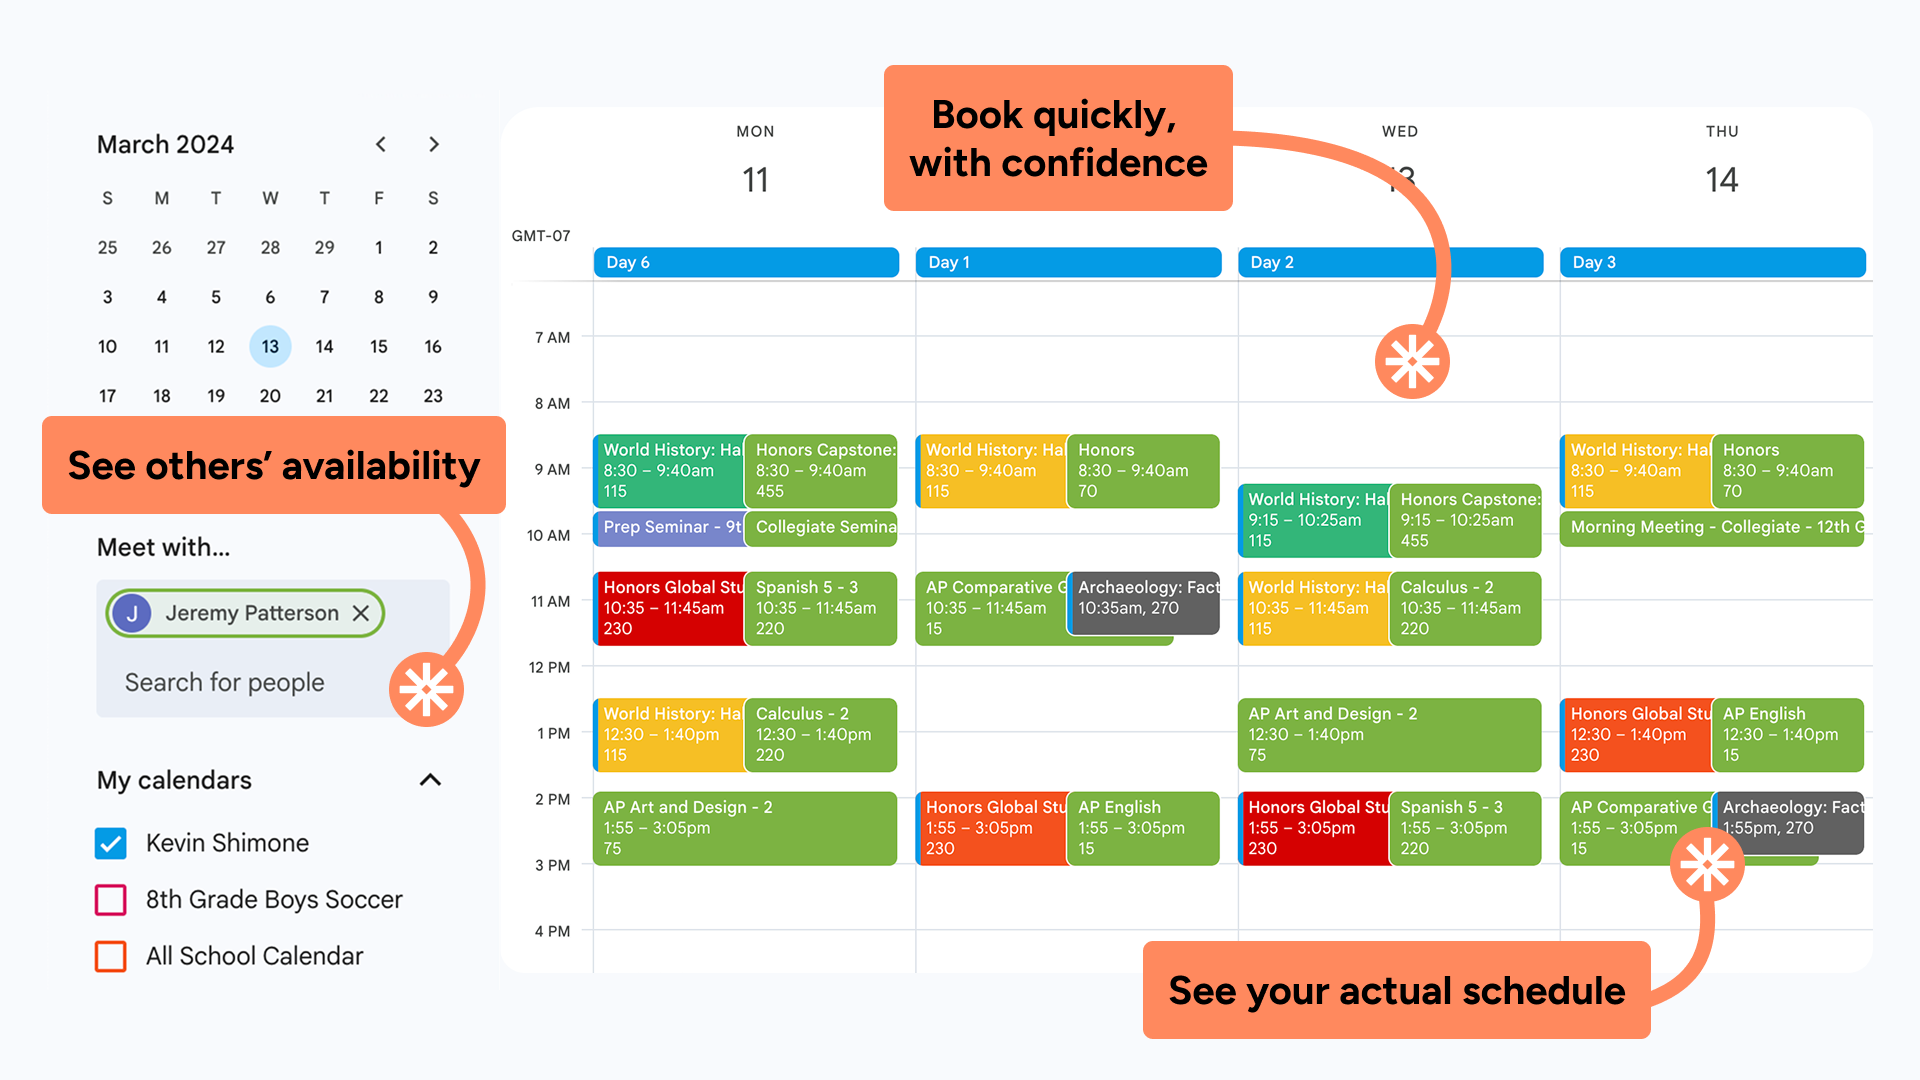
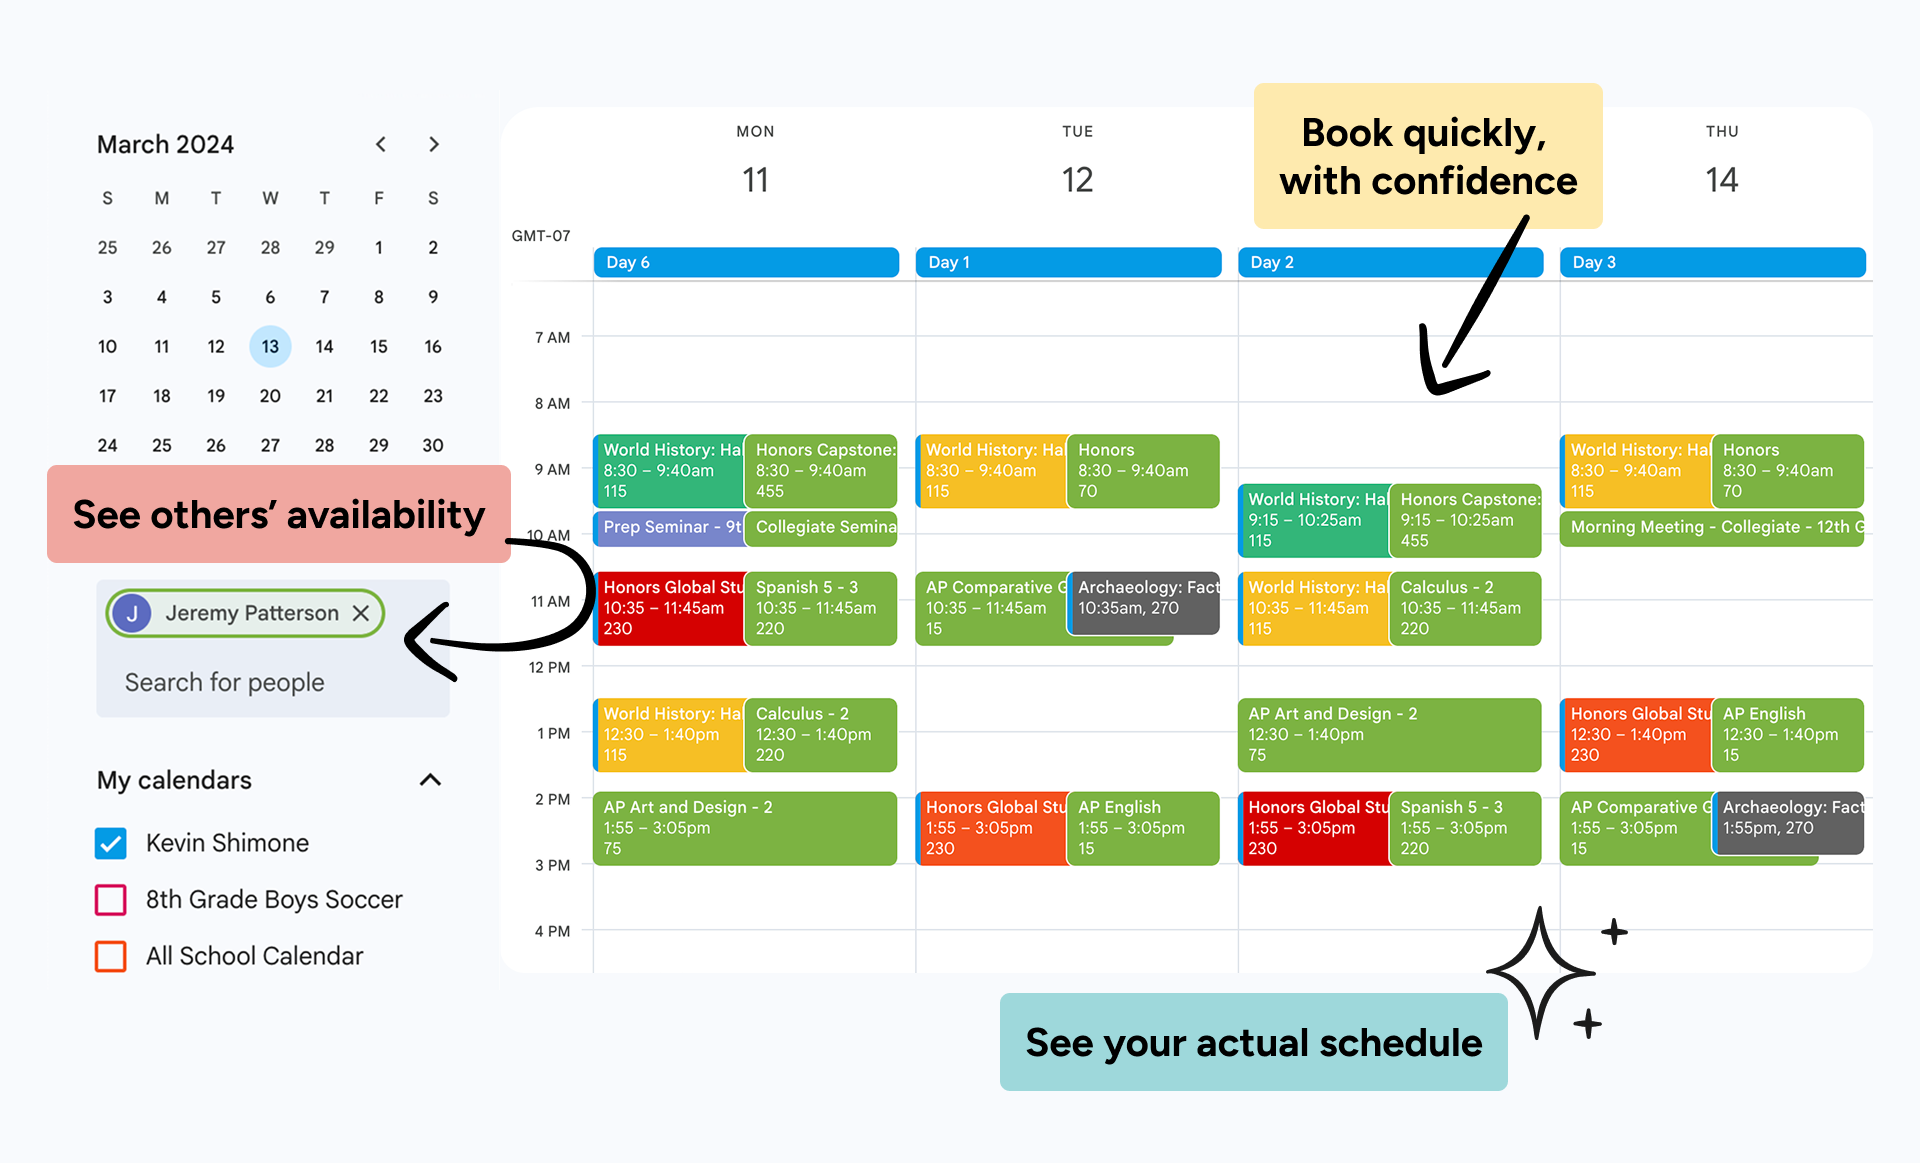
added accent colors and updated homepage hero

diff --git a/app/globals.css b/app/globals.css
@@ -11,8 +11,9 @@
     --secondary-light: #1a2347; /* Lighter shade */
     
     /* Accent Colors */
-    --accent-sand: #F1DAA6;    /* Sand accent */
-    --accent-green: #55AC8C;   /* Green accent */
+    --accent-vanilla: #FEEAAE;    /* Sand accent */
+    --accent-blue: #9ED8DB;   /* Green accent */
+    --accent-melon: #F0A7A0;   /* Blue accent */
     
     /* Background Colors */
     --background-white: #FFFFFF; /* Pure white */
